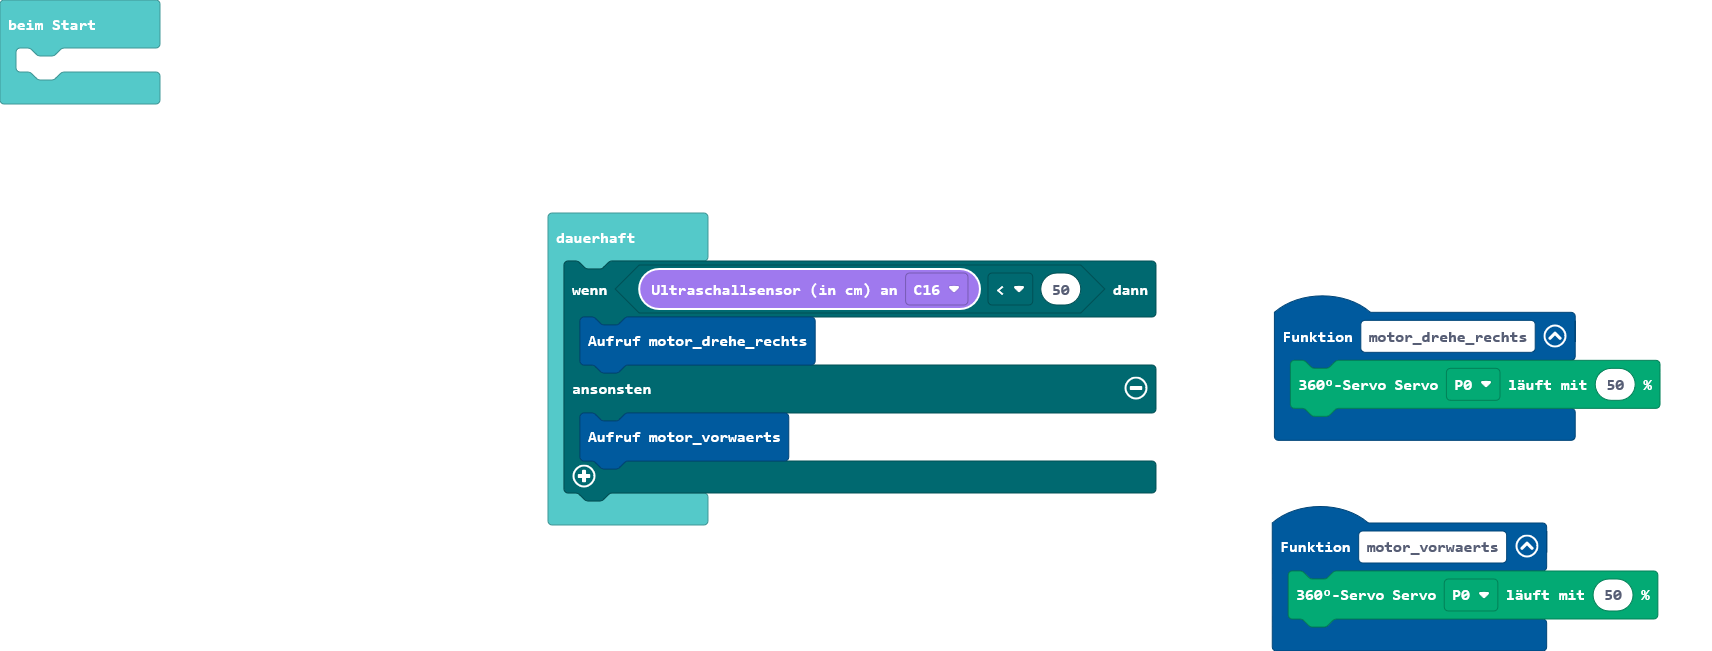
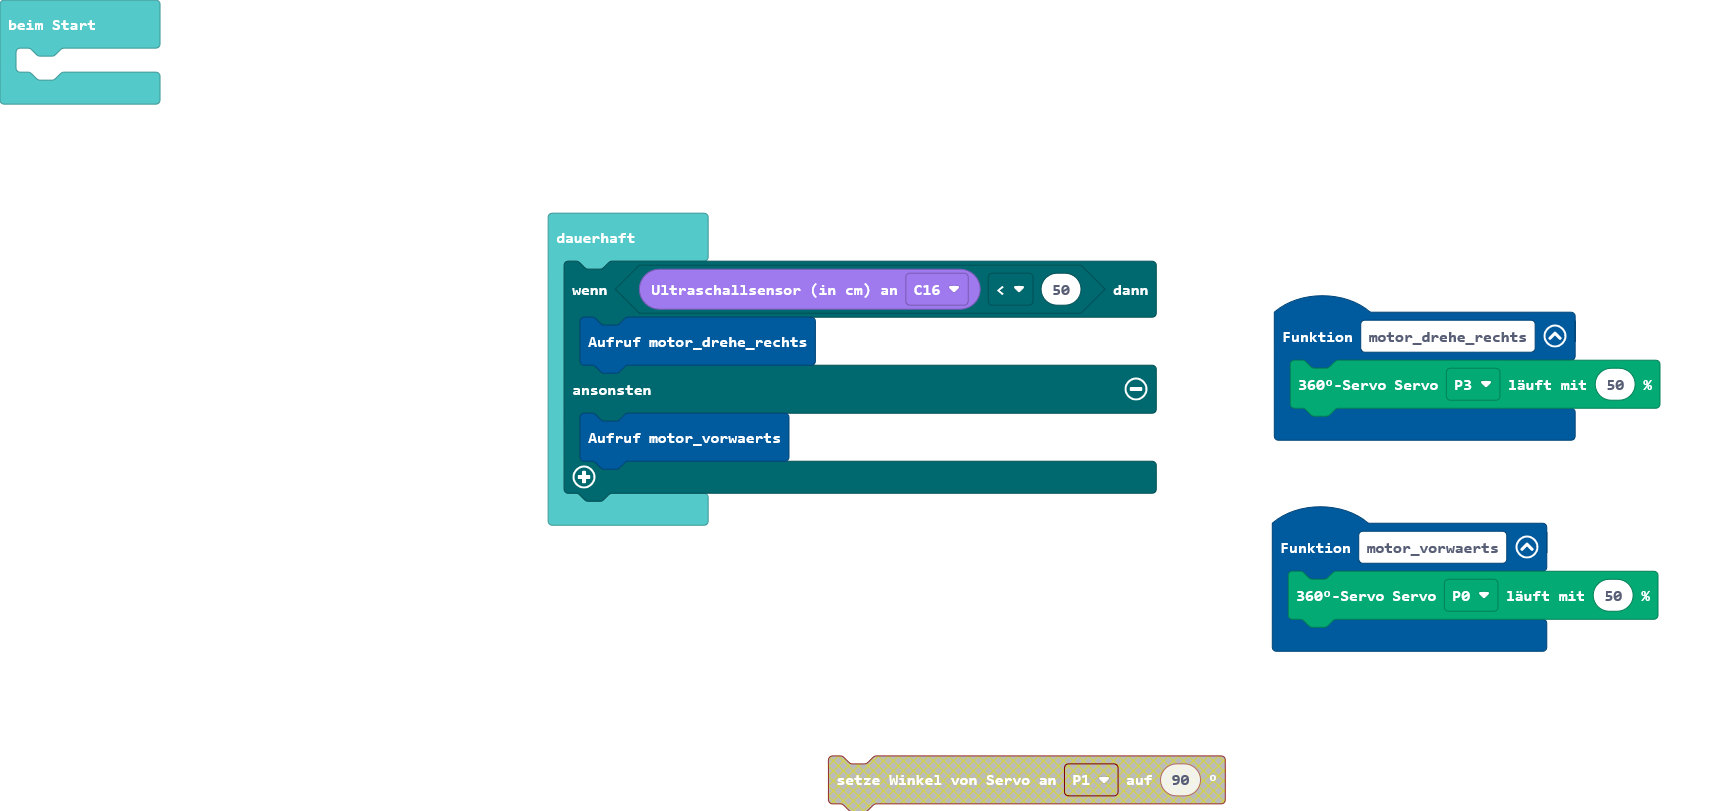
Aktualisiere main.blocks, main.ts

Changed region(s): [[0.4646, 0.3687, 0.9912, 1.0], [0.3098, 0.2458, 0.6815, 0.8295], [0.0, 0.0307, 0.0929, 0.1843]]

diff --git a/main.ts b/main.ts
@@ -2,7 +2,7 @@ function motor_vorwaerts () {
     servos.P0.run(50)
 }
 function motor_drehe_rechts () {
-    servos.P0.run(50)
+    servos.P3.run(50)
 }
 basic.forever(function () {
     if (grove.measureInCentimeters(DigitalPin.C16) < 50) {
